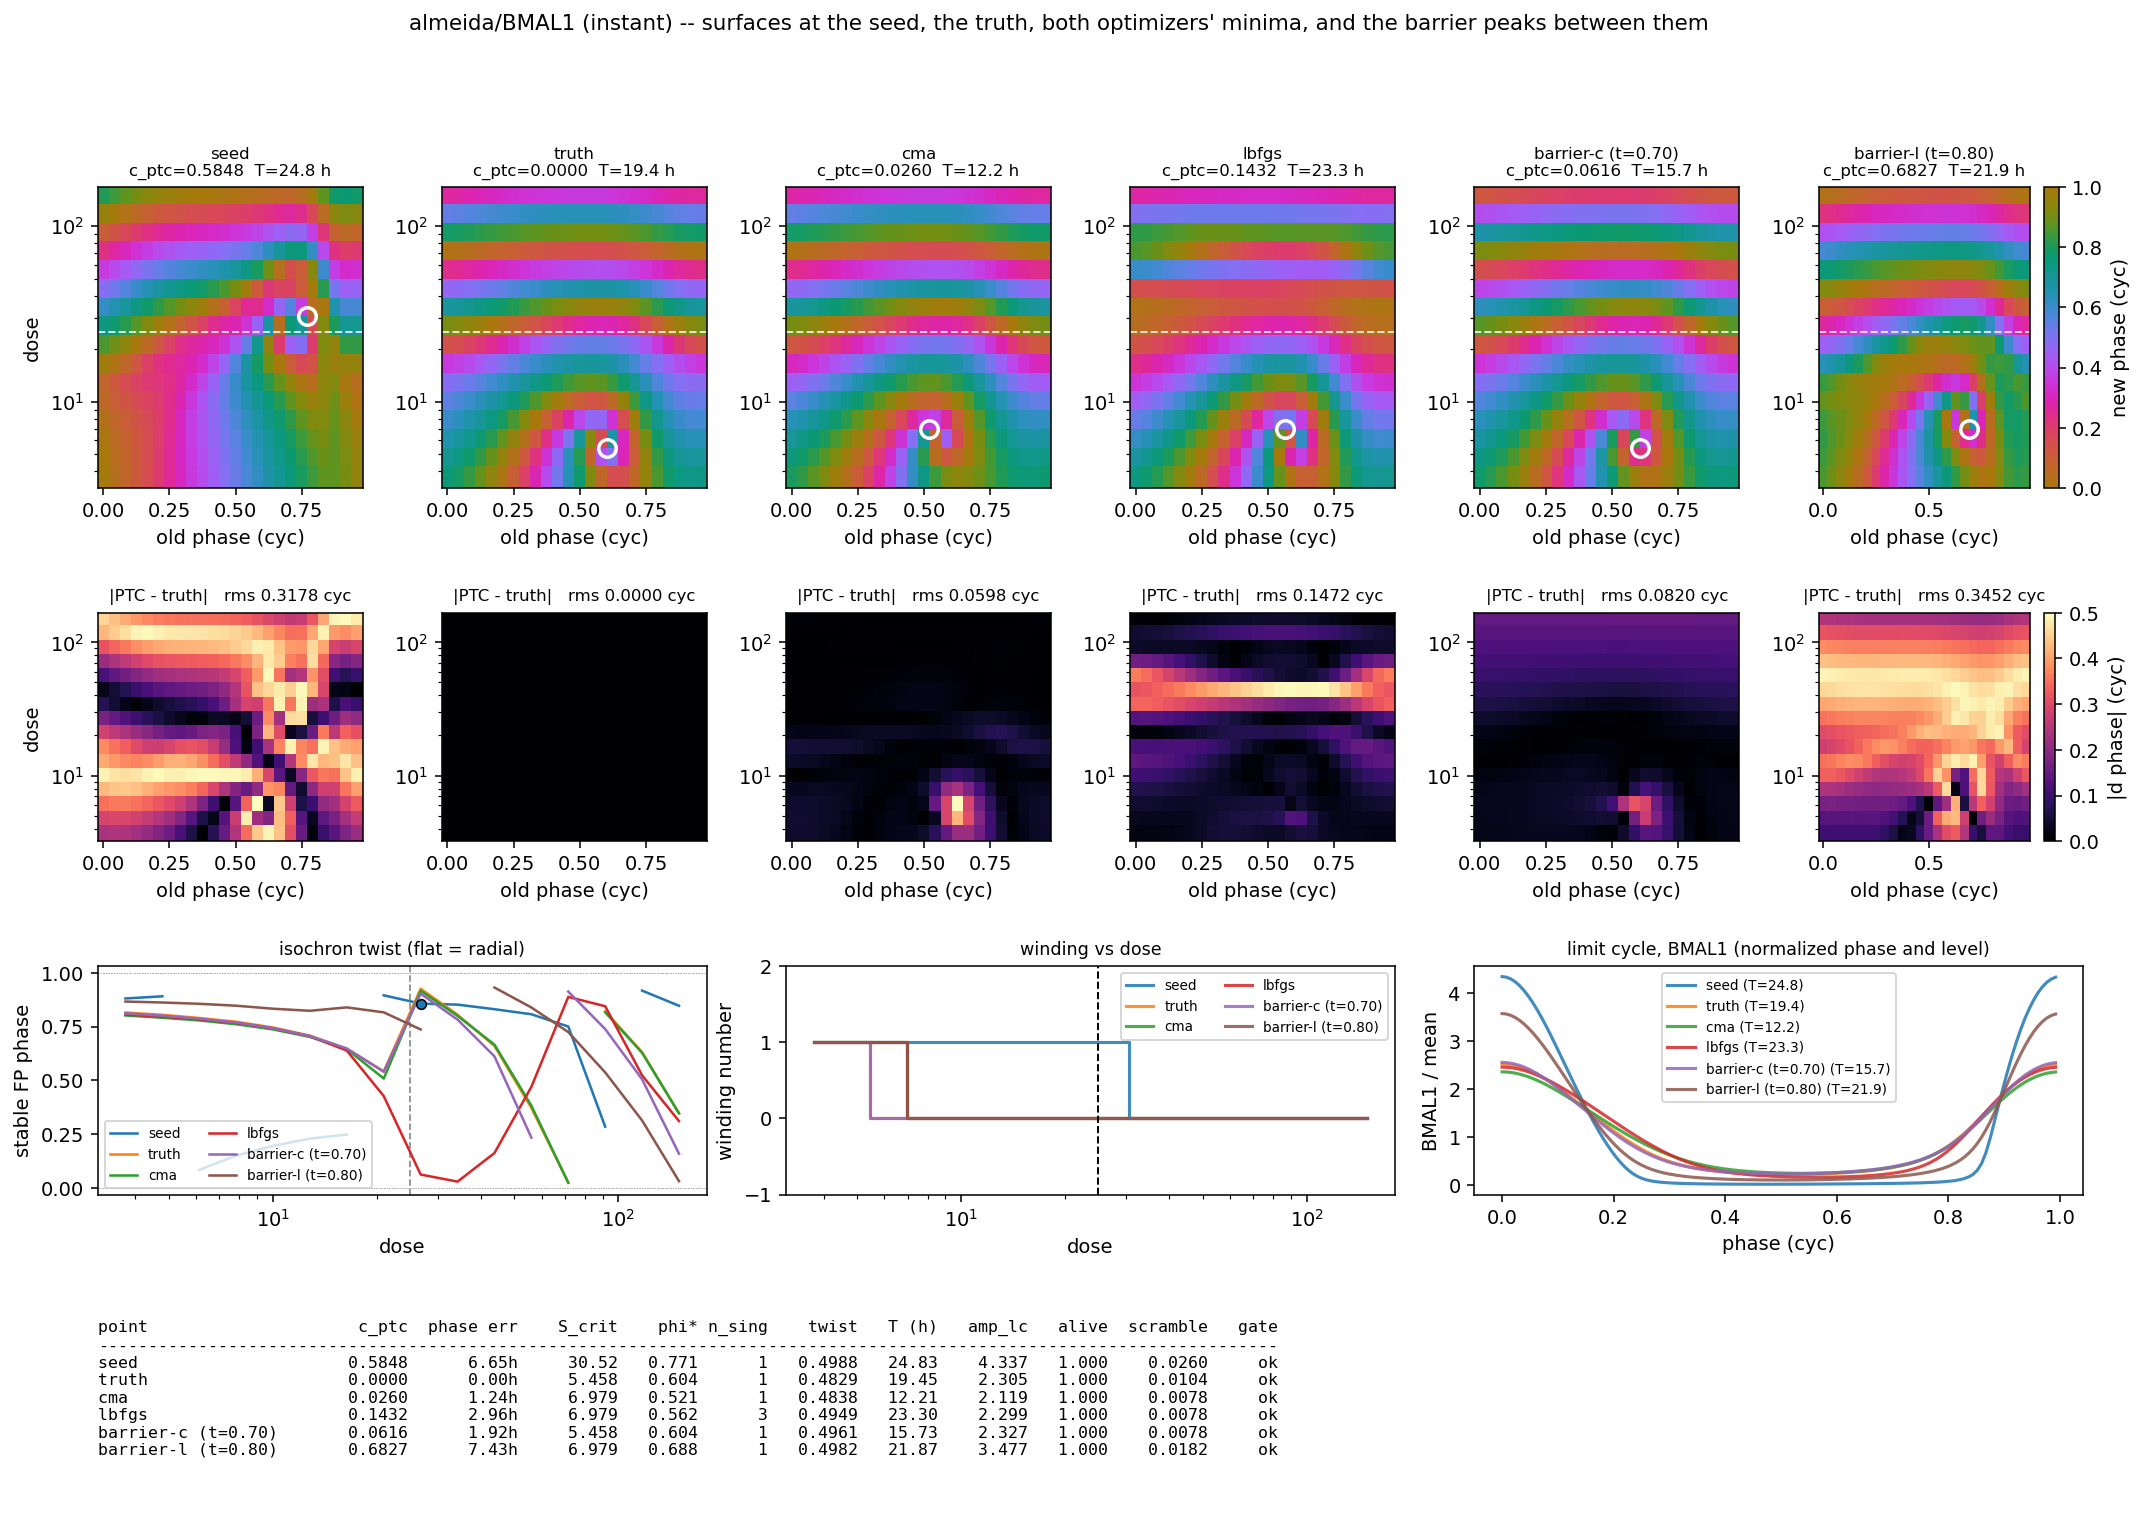
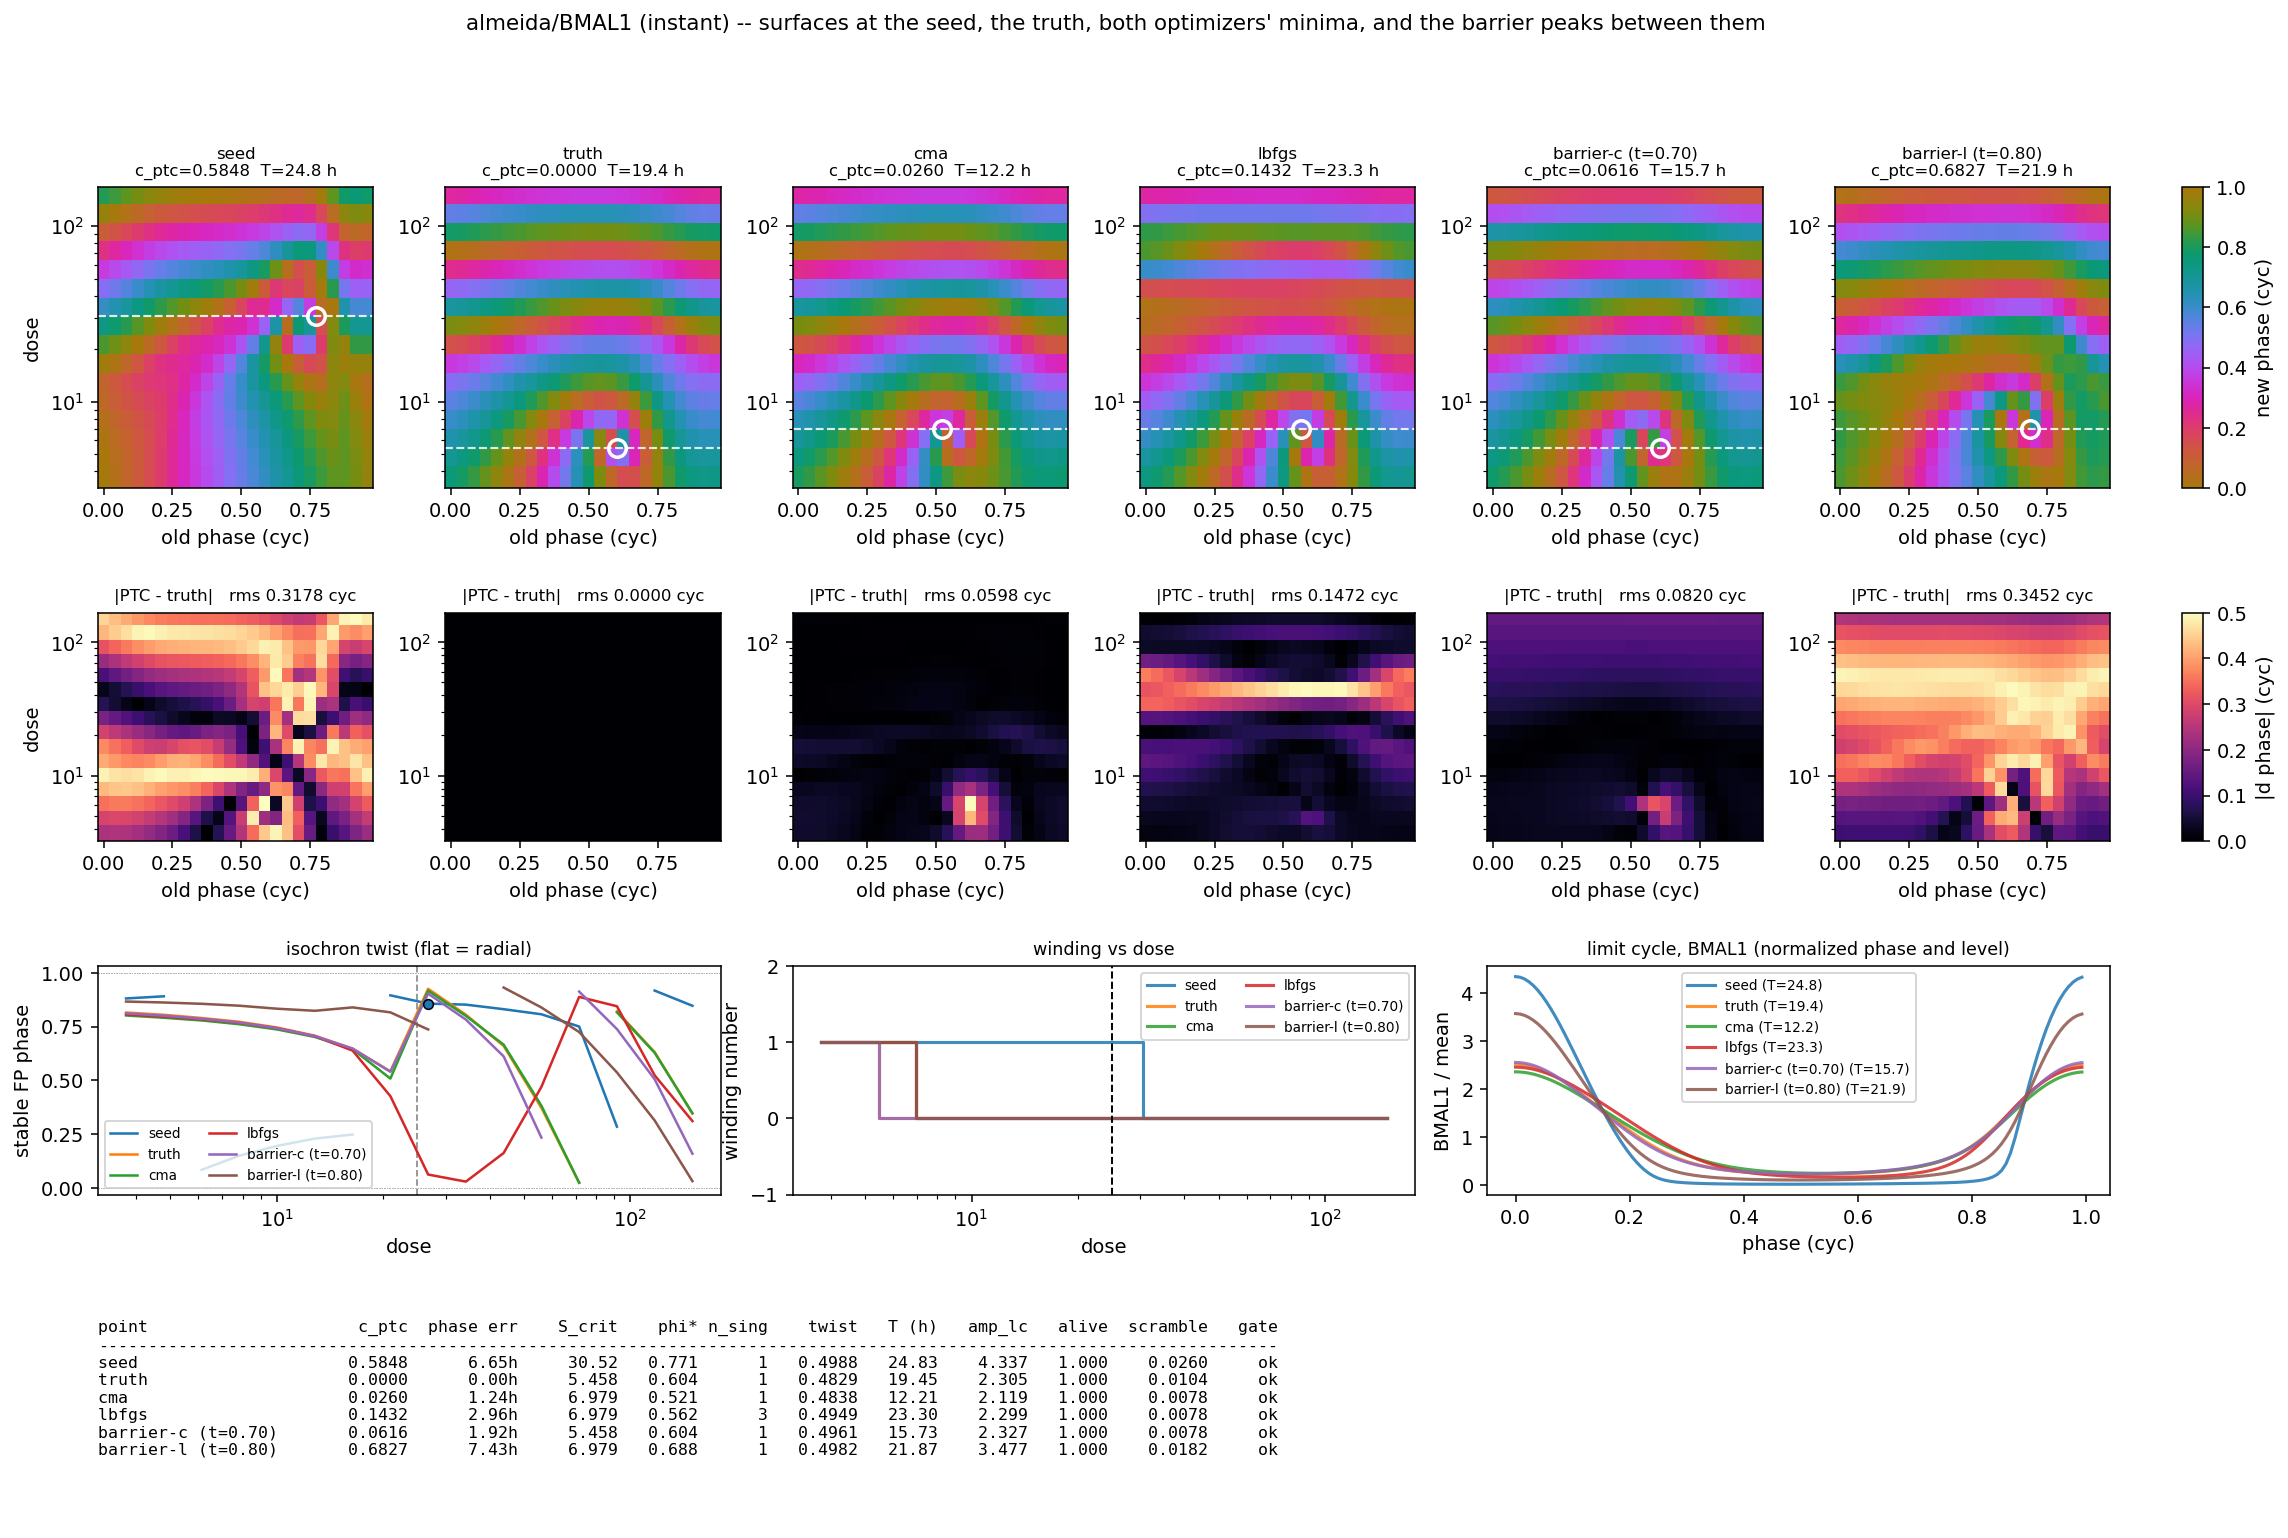
Document the spiral mechanism; smooth singularity feature; figure fixes
PROJECT_SUMMARY 5.4c records WHY the optimizers stop, which is a geometric cause
and not a defect in the search. CMA-ES reaches a typical phase error of 1.24 h
from a start at 6.65 h.

The pointwise cost is not monotone in singularity displacement, shown twice:

  barrier-c carries the truth's EXACT singularity (S_crit 5.458, phi* 0.604) and
  costs 0.0616, against CMA's 0.0260 at (6.979, 0.521) which does not.

  along CMA -> truth the soft singularity moves CLOSER to target (distance
  0.0320 -> 0.0132 over t = 0..0.25) while c_ptc rises monotonically
  (0.02596 -> 0.03174).

Mechanism: around a singularity the PTC is a spiral, so matching two surfaces is
a cross-correlation of two spirals -- alignment oscillates with displacement and
every half-turn of relative rotation is a local minimum. A denser spiral gives
more of them, so the landscape gets MORE rugged with finer resolution. The same
geometry applies to the twisted type-0 region at high dose, which is where the
L-BFGS solution sits (its residual is a band at dose 50-100, not a spot at the
singularity).

NEGATIVE RESULT worth recording: a singularity-location feature term does not
fix this. From t = 0.50 onward the detected (S_crit, phi*) is pinned at the
truth's values for the whole rest of the path while the cost swings
0.046 -> 0.062 -> 0.000. Over exactly the stretch where guidance is needed the
feature is constant and contributes no gradient.

What does work is alignment, and the radial target already has it:
[…]

diff --git a/fit/target.py b/fit/target.py
@@ -214,3 +214,78 @@ if __name__ == '__main__':
     ap.add_argument('--selftest', action='store_true')
     ap.parse_args()
     raise SystemExit(0 if selftest() else 1)
+
+
+# --------------------------------------------------------------------------- #
+#  Soft singularity location -- a FEATURE that does not suffer the spiral problem
+# --------------------------------------------------------------------------- #
+def soft_singularity(z_unit, amp, old, doses, eps=0.25):
+    """Smooth (phi, log-dose) location of the phase singularity, from the amplitude field.
+
+    WHY A FEATURE TERM IS NEEDED AT ALL
+        The pointwise cost is not monotone in singularity displacement. MEASURED: a parameter
+        set whose singularity sits at EXACTLY the truth's (S_crit, phi*) = (5.458, 0.604) scores
+        c_ptc = 0.0616, worse than one sitting at (6.979, 0.521) which scores 0.0260. Moving the
+        defect onto its target made the cost go up.
+
+        The reason is geometric. Around a singularity the PTC is a spiral, so comparing two
+        surfaces is like cross-correlating two spirals: alignment oscillates with displacement
+        rather than improving monotonically, and every half-turn of relative rotation is a local
+        minimum. With a denser spiral -- a more twisted isochron field, or a finer grid -- there
+        are more such minima, and the surface becomes rugged in a way no local method handles.
+        The same argument applies to the strongly twisted type-0 region at high dose, which is
+        where the L-BFGS solution got stuck.
+
+    WHY THIS ESTIMATOR
+        `analysis.winding.detect_grid` gives (S_crit, phi*) but it is a discrete plaquette
+        search: quantized to the dose grid (on a 16-dose grid it returns one of two values) and
+        not differentiable. As a cost term that is a staircase, which trades a rugged landscape
+        for a flat one.
+
+        The amplitude field is the smooth alternative. |z| -> 0 AT the singularity and nowhere
+        else, so a centroid weighted by exp(-(|z|/eps)^2) locates it continuously, without a
+        grid, and differentiably. `old` is circular, so the phi centroid is taken on the unit
+        circle rather than as an arithmetic mean.
+
+    THE TEMPERATURE MUST ADAPT TO THE AMPLITUDE RANGE, NOT BE FIXED.
+        A fixed eps = 0.06 fails outright. MEASURED on the BMAL1/instant grid: |z| never falls
+        below 0.79, because the singularity sits BETWEEN grid cells and the amplitude dip is
+        never resolved. Every weight exp(-(0.79/0.06)^2) then underflows to zero and the
+        centroid degenerates to the grid's own log-mean -- the estimator returned dose 23.690 at
+        every point along a path where the singularity was demonstrably moving.
+
+        So the scale is taken from the surface: the softmin is measured from the MINIMUM
+        amplitude present, with a temperature proportional to the observed spread. That tracks
+        the dip wherever it is and however shallow it is.
+
+    Returns (phi, log_dose, contrast). `contrast` = (max - min)/max of the amplitude field: how
+    pronounced the dip is at all. Near zero means there is no singularity on this grid and the
+    location is meaningless, so a caller must check it rather than trusting the centroid.
+    """
+    a = jnp.asarray(amp)
+    a_min, a_max = jnp.min(a), jnp.max(a)
+    spread = jnp.maximum(a_max - a_min, 1e-12)
+    temp = jnp.maximum(eps * spread, 1e-9)
+    w = jnp.exp(-((a - a_min) / temp) ** 2)
+    w = w / (jnp.sum(w) + 1e-300)
+    zc = jnp.sum(w * jnp.exp(2j * jnp.pi * jnp.asarray(old)[:, None]))
+    phi = (jnp.angle(zc) / (2 * jnp.pi)) % 1.0
+    ld = jnp.sum(w * jnp.log(jnp.asarray(doses))[None, :])
+    return phi, ld, spread / jnp.maximum(a_max, 1e-12)
+
+
+def singularity_cost(amp, amp_target, old, doses, eps=0.25):
+    """Squared distance between two surfaces' soft singularity locations.
+
+    Circular in phi, log-scaled in dose (a factor-of-two error at dose 5 and at dose 100 are
+    the same error). Returns 0 when either surface has no singularity to speak of, so this term
+    stays silent rather than inventing a target when there is nothing to match.
+    """
+    p1, l1, m1 = soft_singularity(None, amp, old, doses, eps)
+    p2, l2, m2 = soft_singularity(None, amp_target, old, doses, eps)
+    dphi = jnp.abs(((p1 - p2 + 0.5) % 1.0) - 0.5)
+    dld = (l1 - l2) / jnp.maximum(jnp.abs(l2), 1e-9)
+    # `contrast` now, not raw mass: a surface with no amplitude dip has no singularity
+    # to locate, and matching one that is not there is worse than staying silent.
+    live = (m1 > 1e-3) & (m2 > 1e-3)
+    return jnp.where(live, dphi ** 2 + dld ** 2, 0.0)

diff --git a/analysis/compare_points.py b/analysis/compare_points.py
@@ -123,9 +123,12 @@ def figure(g, path=None):
     n = len(pts)
     truth = next(p for p in pts if p['label'] == 'truth')
 
-    fig = plt.figure(figsize=(3.05 * n, 12.4))
-    gs = fig.add_gridspec(4, n, height_ratios=[1.25, 0.95, 0.95, 0.85], hspace=0.52,
-                          wspace=0.30)
+    # A dedicated narrow column for the colorbars. Attaching a colorbar to the last panel
+    # steals width from it alone, so the rightmost surface renders narrower than the five it is
+    # meant to be compared with.
+    fig = plt.figure(figsize=(3.05 * n + 1.1, 12.4))
+    gs = fig.add_gridspec(4, n + 1, height_ratios=[1.25, 0.95, 0.95, 0.85],
+                          width_ratios=[1.0] * n + [0.075], hspace=0.52, wspace=0.30)
 
     # --- row 0: PTC surfaces, common colour scale ------------------------------ #
     for i, p in enumerate(pts):
@@ -136,14 +139,16 @@ def figure(g, path=None):
         ax.set_xlabel('old phase (cyc)')
         if i == 0:
             ax.set_ylabel('dose')
-        ax.axhline(g['s_crit'], color='w', ls='--', lw=1.0, alpha=0.8)
+        # this panel's OWN S_crit -- the previous version drew one global value on every
+        # panel, which put the line in the wrong place everywhere except by coincidence
         if np.isfinite(p['S']):
+            ax.axhline(p['S'], color='w', ls='--', lw=1.1, alpha=0.85)
             ax.plot([p['phi']], [p['S']], 'o', mfc='none', mec='w', mew=1.8, ms=9)
         bad = '' if p['quality'] else '  [GATE FAIL]'
         ax.set_title(f"{p['label']}{bad}\nc_ptc={p['c_ptc']:.4f}  T={p['period']:.1f} h",
                      fontsize=8.5)
         if i == n - 1:
-            fig.colorbar(m, ax=ax, label='new phase (cyc)')
+            fig.colorbar(m, cax=fig.add_subplot(gs[0, n]), label='new phase (cyc)')
 
     # --- row 1: PTC difference from the truth ---------------------------------- #
     for i, p in enumerate(pts):
@@ -158,11 +163,11 @@ def figure(g, path=None):
         ax.set_title(f"|PTC - truth|   rms {np.sqrt(np.nanmean(d ** 2)):.4f} cyc",
                      fontsize=8.5)
         if i == n - 1:
-            fig.colorbar(mm, ax=ax, label='|d phase| (cyc)')
+            fig.colorbar(mm, cax=fig.add_subplot(gs[1, n]), label='|d phase| (cyc)')
 
     # --- row 2: features -- twist, winding, LC traces --------------------------- #
     cols = plt.cm.tab10(np.linspace(0, 1, 10))
-    ax = fig.add_subplot(gs[2, :2])
+    ax = fig.add_subplot(gs[2, 0:2])
     for i, p in enumerate(pts):
         twist_panel(ax, doses, p['twist'], label=p['label'], color=cols[i],
                     scrit=g['s_crit'] if i == 0 else None,
@@ -181,7 +186,7 @@ def figure(g, path=None):
     # LC traces of the reference species, against NORMALIZED phase (see module docstring)
     ph = np.arange(pts[0]['cyc'].shape[0]) / pts[0]['cyc'].shape[0]
     ref = 0
-    ax = fig.add_subplot(gs[2, 4:])
+    ax = fig.add_subplot(gs[2, 4:n])
     for i, p in enumerate(pts):
         c = p['cyc'][:, ref]
         ax.plot(ph, c / max(np.mean(c), 1e-12), color=cols[i], lw=1.6, alpha=0.85,
@@ -191,7 +196,7 @@ def figure(g, path=None):
     ax.legend(fontsize=7)
 
     # --- row 3: the numbers ------------------------------------------------------ #
-    ax = fig.add_subplot(gs[3, :])
+    ax = fig.add_subplot(gs[3, 0:n])
     ax.axis('off')
     hdr = (f"{'point':22s} {'c_ptc':>8s} {'phase err':>10s} {'S_crit':>9s} {'phi*':>7s} "
            f"{'n_sing':>6s} {'twist':>8s} {'T (h)':>7s} {'amp_lc':>8s} {'alive':>7s} "

diff --git a/PROJECT_SUMMARY.md b/PROJECT_SUMMARY.md
@@ -678,6 +678,57 @@ RELATIVE SENSITIVITY (the PTC responds more strongly along that direction), not 
 complementarity (the PTC sees something the LC cannot). Both statements hold at once, and they
 are different claims about the same geometry.
 
+### 5.4c WHY the optimizers stop: the spiral / cross-correlation problem
+
+The optimizers are not doing badly. CMA-ES reaches c_ptc = 0.026, a typical phase error of
+**1.24 h** on a 24 h clock, from a start at 6.65 h. What stops it has a specific geometric
+cause, and it is not a defect in the search.
+
+**The pointwise cost is not monotone in singularity displacement.** Two independent
+demonstrations:
+
+| | c_ptc | S_crit | phi* |
+|---|---|---|---|
+| CMA's minimum | 0.0260 | 6.979 | 0.521 |
+| `barrier-c` (t = 0.70 toward the truth) | **0.0616** | **5.458** | **0.604** |
+| truth | 0.0000 | 5.458 | 0.604 |
+
+`barrier-c` has the truth's **exact** singularity location and costs 2.4x more than CMA's
+solution, which does not. And along the segment CMA -> truth, the soft singularity location
+moves steadily CLOSER to the target (distance 0.0320 -> 0.0132 over t = 0 .. 0.25) while c_ptc
+rises monotonically (0.02596 -> 0.03174). Moving the defect onto its target makes the fit worse.
+
+**The mechanism.** Around a singularity the PTC is a spiral. Comparing two such surfaces is a
+cross-correlation of two spirals: alignment oscillates with relative displacement instead of
+improving monotonically, and every half-turn of relative rotation is a local minimum. A denser
+spiral -- more twisted isochrons, or a finer grid -- produces more of them, so the landscape
+gets MORE rugged as resolution improves. The same geometry applies to the strongly twisted
+type-0 region at high dose, which is where the L-BFGS solution is stuck: its residual is a band
+at dose 50-100, not a spot at the singularity.
+
+**A singularity-location feature term does NOT fix this**, which was the natural guess. From
+t = 0.50 onward the detected `(S_crit, phi*)` is pinned at the truth's values for the entire
+rest of the path while the cost swings 0.046 -> 0.062 -> 0.000. Over exactly the stretch where
+guidance is needed, such a term is constant and contributes no gradient. The feature saturates
+long before the surfaces agree.
+
+**What does work is alignment, and the radial target already has it.** `fit/target.profile`
+optimizes the relative registration `(k, psi)` between model and target on every evaluation --
+dose scale and kick direction -- at zero ODE cost, because the target is closed-form. That is
+the cross-correlation fix proper: find the shift that maximizes alignment rather than comparing
+at fixed registration. The self-recovery control does NOT profile alignment (its target is in
+the model's own units), which is part of why its landscape is harsher than the radial fit's.
+
+`fit/target.soft_singularity` provides a smooth, unquantized singularity location for use as a
+staged term where it does have signal. Its temperature adapts to the amplitude range: a fixed
+one fails outright here, because |z| never falls below 0.79 on this grid -- the singularity sits
+BETWEEN cells and the dip is never resolved -- so fixed weights underflow and the centroid
+degenerates to the grid's own log-mean.
+
+**Consequence for the programme.** CMA-ES on the radial target is the right tool and is worth
+running as it stands: the alignment profiling is already in place, and the optimizer demonstrably
+moves a long way toward the objective before the spiral geometry stops it.
+
 ### 5.5 Genes are NOT redundant -- the opposite of the Mirsky prescription
 
 Since dose variation was ruled out (5.1: widening the window 3x moves nothing), the remaining
